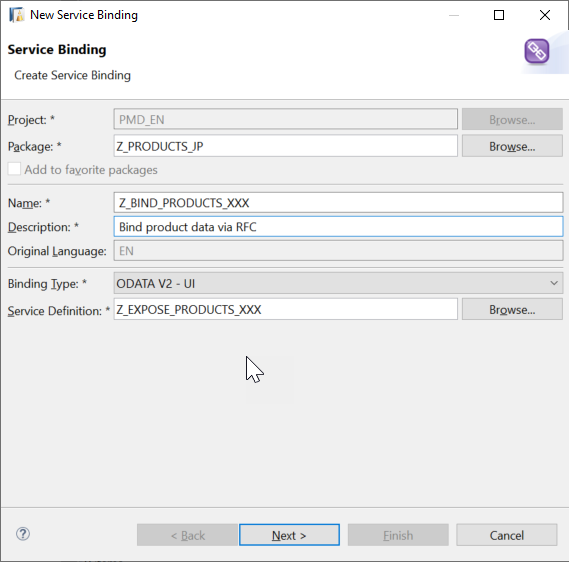
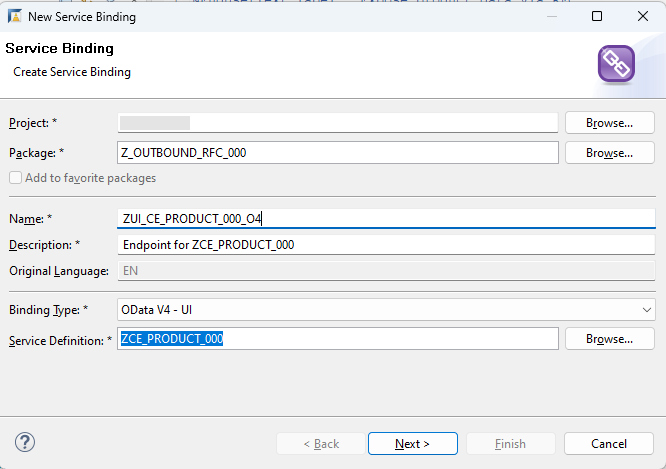
Feedback from GW

diff --git a/tutorials/abap-environment-rfc-custom-entity/abap-environment-rfc-custom-entity.md b/tutorials/abap-environment-rfc-custom-entity/abap-environment-rfc-custom-entity.md
@@ -36,6 +36,8 @@ Custom entities are used for data models for which you do not run a SELECT state
     
 Custom entities allow you to get data using an OData service or, as here, using RFC.
 
+Throughout this tutorial, replace `###` or `000` with your initials or group number.
+
 
 ---
 
@@ -45,12 +47,14 @@ First, you create the class that implements the data retrieval logic.
 
 1. In ADT, open your ABAP package and choose **New > Class**.
 
+    <!-- border -->  
     ![Image depicting step1-new-class](step1-new-class.png)
 
 2. Enter the following, then choose **Next**:
-    - Name: **`zcl_product_via_rfc_000`**
+   
+    - Name: **`zcl_product_via_rfc_###`**
     - Description: Read product data via `RFC`
-    - Interfaces: **`interfaces if_rap_query_provider`**
+    - Interfaces: **`if_rap_query_provider`**
 
 3. Choose the transport request, then choose **Finish**.
 
@@ -63,13 +67,16 @@ First, you create the class that implements the data retrieval logic.
 1. Now choose **New >  Other... > Core Data Services > Data Definition**.
 
 2. Enter a name and description:
-    - `zce_product_000`
+    - `zce_product_###`
     - Read product data via `RFC`
-
+    - Referenced Object: *Leave blank*
+   
 3. Choose the transport request, then choose **Next**. Do **not** choose **Finish**, yet!
+
 
 4. Choose **Define Custom Entity with Parameters**, then choose **Finish**. Ignore the errors for now.
 
+    <!-- border -->  
     ![Image depicting step1b-custom-entity](step1b-custom-entity.png)
 
 
@@ -79,7 +86,7 @@ Add the following annotation to the view (immediately after the '@EndUserText.la
 
 ```CDS
 
-@ObjectModel.query.implementedBy: 'ABAP:ZCL_PRODUCT_VIA_RFC_000'
+@ObjectModel.query.implementedBy: 'ABAP:ZCL_PRODUCT_VIA_RFC_###'
 
 ```
 
@@ -90,8 +97,6 @@ Add the following annotation to the view (immediately after the '@EndUserText.la
 
     ```CDS
 
-
-    define root custom entity zce_product_000
     with parameters parameter_name : parameter_type {
      key key_element_name : key_element_type;
      element_name : element_type;
@@ -120,7 +125,7 @@ For more information on the UI Annotations used here, see
 
     ```CDS
 
-    define root custom entity zce_product_000
+    define root custom entity zce_product_###
     {
 
           @UI.facet     : [
@@ -138,7 +143,7 @@ For more information on the UI Annotations used here, see
           identification: [{position: 10}],
           selectionField: [{position: 10}]
           }
-      key ProductId     : abap.char( 10 );
+      key product_id     : abap.char( 10 );
           TypeCode      : abap.char( 2 );
           @UI           : {
           lineItem      : [{position: 20, importance: #HIGH}],
@@ -169,8 +174,8 @@ For more information on the UI Annotations used here, see
           identification: [{position: 50}]
           }
           Price         : abap.dec( 23, 4 );
-          @Semantics.currencyCode: true
-          CurrencyCode  : abap.cuky( 5 );
+          @Semantics.currency_code: true
+          currency_code  : abap.cuky( 5 );
           @Semantics.quantity.unitOfMeasure: 'DimUnit'
           Width         : abap.quan( 13, 3 );
           @Semantics.quantity.unitOfMeasure: 'DimUnit'
@@ -192,11 +197,22 @@ You will now implement the data retrieval logic in the class.
 
 Go back to the class.
 
-1. You will start by defining an local internal table, which you will fill by retrieving the data from the back end. The type of the local variable is the CDS View that you just created. Add the following code to the `if_rap_query_provider~select` method.
+1. First, in the **`CLASS...DEFINITION` , `  PUBLIC SECTION.`**, define a type for the variable `maxrows`. You will need this later to call the `BAPI`:
 
     ```ABAP
 
-    DATA lt_product TYPE STANDARD TABLE OF zce_product_000.
+        TYPES:
+            BEGIN OF bapi_epm_max_rows,
+                bapimaxrow TYPE bapimaxrow,
+            END OF bapi_epm_max_rows.
+        
+    ```
+
+
+1. Now, in the **`CLASS...IMPLEMENTATION`**, define an local internal table, which you will fill by retrieving the data from the back end. The type of the local variable is the CDS View that you just created. Add the following code to the `if_rap_query_provider~select` method.
+
+    ```ABAP
+    DATA lt_product TYPE STANDARD TABLE OF zce_product_###.
 
     ```
 
@@ -213,7 +229,7 @@ Go back to the class.
 
 If you are working in the trial version, omit this step.
 
-If you are working in the full version of ABAP Environment: Define the connection as follows, replacing `000` with your initials or group number. Ignore any warnings for now. Wrap this in a `TRY. ...CATCH... ENDTRY.`
+If you are working in the full version of ABAP Environment: Define the connection as follows, replacing `###` with your initials or group number. Ignore any warnings for now. Wrap this in a `TRY. ...CATCH... ENDTRY.`
 
  
 **IMPORTANT**: Always specify the authentication mode using the interface `if_a4c_cp_service`. Never hard-code your password in the class.
@@ -224,9 +240,8 @@ If you are working in the full version of ABAP Environment: Define the connectio
 
       TRY.
         DATA(lo_destination) = cl_rfc_destination_provider=>create_by_comm_arrangement(
-                            comm_scenario          = 'Z_OUTBOUND_RFC_000_CSCEN'       " Communication scenario
-                            service_id             = 'Z_OUTBOUND_RFC_000'             " Outbound service
-                            comm_system_id         = 'Z_OUTBOUND_RFC_CSYS_000'        " Communication system
+                 comm_scenario          = 'Z_OUTBOUND_RFC_000_CSCEN'   " Communication scenario
+                 service_id             = 'Z_OUTBOUND_RFC_000_SRFC'    " Outbound service
 
                              ).
 
@@ -251,36 +266,33 @@ If you are working in the full version of ABAP Environment: Define the connectio
     ENDIF.
     ```
 
-2. Now add an `IF... ELSE. ... ENDIF.` block.
-
-3. If you are using the trial version, fill the internal table `lt_product` with the mock data. If not, call the `BAPI`.
+2. Now, in the **`CLASS...IMPLEMENTATION.`**, add an **`IF... ELSE. ... ENDIF.`** block. If you are using the trial version, fill the internal table `lt_product` with the mock data. If not, call the `BAPI`.
 
     ```ABAP
 
-     DATA lv_maxrows TYPE int4.
-
-     DATA(lv_skip) = io_request->get_paging( )->get_offset(  ).
-     DATA(lv_top) = io_request->get_paging( )->get_page_size(  ).
-
-     lv_maxrows = lv_skip + lv_top.
+    DATA ls_maxrows TYPE bapi_epm_max_rows.
+    DATA(lv_skip) = io_request->get_paging( )->get_offset(  ).
+    DATA(lv_top) = io_request->get_paging( )->get_page_size(  ).
+    ls_maxrows-bapimaxrow = lv_skip + lv_top.
 
      IF lv_abap_trial = abap_true.
-          lt_product = VALUE #( ( productid = 'HT-1000' name = 'Notebook' )
-                                ( productid = 'HT-1001' name = 'Notebook' )
-                                ( productid = 'HT-1002' name = 'Notebook' )
-                                ( productid = 'HT-1003' name = 'Notebook' )
-                                ( productid = 'HT-1004' name = 'Notebook' )
-                                ( productid = 'HT-1005' name = 'Notebook' )
+          lt_product = VALUE #( ( product_id = 'HT-1000' name = 'Notebook' )
+                                ( product_id = 'HT-1001' name = 'Notebook' )
+                                ( product_id = 'HT-1002' name = 'Notebook' )
+                                ( product_id = 'HT-1003' name = 'Notebook' )
+                                ( product_id = 'HT-1004' name = 'Notebook' )
+                                ( product_id = 'HT-1005' name = 'Notebook' )
                           ).
 
 
-    ELSE.                      
-     CALL FUNCTION 'BAPI_EPM_PRODUCT_GET_LIST'
+    ELSE.
+    "Call BAPI                      
+    CALL FUNCTION 'BAPI_EPM_PRODUCT_GET_LIST'
        DESTINATION lv_destination
        EXPORTING
-         max_rows   = lv_maxrows
+             max_rows   = ls_maxrows
        TABLES
-         headerdata = lt_product.
+             headerdata = lt_product.
 
     ENDIF.
 
@@ -326,21 +338,26 @@ Wrap the whole data retrieval logic call in a second `TRY. ..CATCH...ENDTRY` blo
 
 ```ABAP
 
-CLASS zcl_product_via_rfc_000 DEFINITION
+CLASS zcl_product_via_rfc_### DEFINITION
   PUBLIC
   FINAL
   CREATE PUBLIC .
 
   PUBLIC SECTION.
-    INTERFACES if_rap_query_provider.
+    TYPES:
+      BEGIN OF bapi_epm_max_rows,
+        bapimaxrow TYPE bapimaxrow,
+      END OF bapi_epm_max_rows.
+
+    INTERFACES if_rap_query_provider .
   PROTECTED SECTION.
   PRIVATE SECTION.
 ENDCLASS.
 
-CLASS zcl_product_via_rfc_000 IMPLEMENTATION.
+CLASS zcl_product_via_rfc_### IMPLEMENTATION.
   METHOD if_rap_query_provider~select.
 
-    DATA lt_product TYPE STANDARD TABLE OF  ZCE_PRODUCT_000 .
+    DATA lt_product TYPE STANDARD TABLE OF ZCE_PRODUCT_### .
 
     "In the trial version we cannot call RFC function module in backend systems
     DATA(lv_abap_trial) = abap_true.
@@ -349,30 +366,31 @@ CLASS zcl_product_via_rfc_000 IMPLEMENTATION.
     TRY.
 
         DATA(lo_destination) = cl_rfc_destination_provider=>create_by_comm_arrangement(
-                comm_scenario   = 'Z_OUTBOUND_000_REST_CSCEN'     " MANDATORY, created in CLI in ADT, contains Comm Arr, System, User
-                comm_system_id  = 'Z000_TO_PRV_CSYS'              " recommended = points to Comm Sys
-                service_id      = 'Z_OUTBOUND_000_REST'           " recommended = created in ADT, points to COM Outbound Service
+                 comm_scenario          = 'Z_OUTBOUND_RFC_000_CSCEN'   " Communication scenario
+                 service_id             = 'Z_OUTBOUND_RFC_000_SRFC'    " Outbound service
+
 
 
                             ).
 
+        DATA(lv_destination) = lo_destination->get_destination_name( ).
 
         "Check if data is requested
         IF io_request->is_data_requested(  ).
 
-            DATA lv_maxrows TYPE int4.
-            DATA(lv_skip) = io_request->get_paging( )->get_offset(  ).
-            DATA(lv_top) = io_request->get_paging( )->get_page_size(  ).
-            lv_maxrows = lv_skip + lv_top.
+          DATA ls_maxrows TYPE bapi_epm_max_rows.
+          DATA(lv_skip) = io_request->get_paging( )->get_offset(  ).
+          DATA(lv_top) = io_request->get_paging( )->get_page_size(  ).
+          ls_maxrows-bapimaxrow = lv_skip + lv_top.
 
                 IF lv_abap_trial = abap_true.
                     lt_product = VALUE #(
-                              ( productid = 'HT-1000' name = 'Notebook' )
-                              ( productid = 'HT-1001' name = 'Notebook' )
-                              ( productid = 'HT-1002' name = 'Notebook' )
-                              ( productid = 'HT-1003' name = 'Notebook' )
-                              ( productid = 'HT-1004' name = 'Notebook' )
-                              ( productid = 'HT-1005' name = 'Notebook' )
+                              ( product_id = 'HT-1000' name = 'Notebook' )
+                              ( product_id = 'HT-1001' name = 'Notebook' )
+                              ( product_id = 'HT-1002' name = 'Notebook' )
+                              ( product_id = 'HT-1003' name = 'Notebook' )
+                              ( product_id = 'HT-1004' name = 'Notebook' )
+                              ( product_id = 'HT-1005' name = 'Notebook' )
                               ).
 
                 ELSE.
@@ -380,10 +398,9 @@ CLASS zcl_product_via_rfc_000 IMPLEMENTATION.
                   CALL FUNCTION 'BAPI_EPM_PRODUCT_GET_LIST'
                        DESTINATION lv_destination
                        EXPORTING
-                         max_rows   = lv_maxrows
+                         max_rows   = ls_maxrows
                        TABLES
-                         headerdata = lt_product
-                         .
+                         headerdata = lt_product.
 
                 ENDIF.
                   "Set total no. of records
@@ -414,21 +431,36 @@ You then use the **Service Binding** to bind a service definition to a client-se
 
 Start with the Service Definition:
 
-1. From your package, select your custom entity, **`zce_product_000`**, then choose **New > Service Definition** from the context menu, then choose **Next**.
+1. From your package, select your custom entity, **`zce_product_###`**, then choose **New > Service Definition** from the context menu, then choose **Next**.
 
+    <!-- border -->
     ![Image depicting step12-choose-service-def](step12-choose-service-def.png)
 
-2. Choose a name and description:
-    - **`Z_EXPOSE_PRODUCTS_000`**
-    - Expose product data via RFC
+2. Enter the following and choose **Next**:
+    - Name: **`ZCE_PRODUCT_###`**
+    - Description: Expose product data via RFC
+    - Source Type: Definition
+    - Referenced Object: **`ZCE_PRODUCT_###`**
+
+    <!-- border -->
+    ![step12b-new-service-def](step12b-new-service-def.png)  
 
 3. Choose the transport request; choose **Next**.
 
 4. Use the selected template; choose **Finish**. The name of your custom entity is inserted automatically.
 
+    <!-- border -->
     ![Image depicting step11-expose-view](step11-expose-view.png)
 
-5. Save and activate ( **`Ctrl+S, Ctrl+F3`** ) the service definition.
+5. Optional: For readability, add an alias, such as **Products**:
+
+    ```CDS
+    expose zce_product_### as Products;
+    ```
+   
+6. Save and activate ( **`Ctrl+S, Ctrl+F3`** ) the service definition.
+
+
 
 
 ### Create the service binding
@@ -436,47 +468,55 @@ Start with the Service Definition:
 1. Select your service definition, then choose **Service Binding** from the context menu, then choose **Next**.
 
 2. Enter the following, then choose **Next**:
-    - Name = **`Z_BIND_PRODUCTS_000`**
+    - Name = **`ZUI_CE_PRODUCT_###`**
     - Description = Bind product data via RFC
     - Binding Type = ODATA V2 (UI...)
-    - Service Definition = `ZSD_PRODUCT_000`
+    - Service Definition = `ZCE_PRODUCT_###`
 
-      ![Image depicting step12-choose-binding-type](step12-choose-binding-type.png)
+    <!-- border -->
+    ![Image depicting step12-choose-binding-type](step12-choose-binding-type.png)
 
 3. Choose the transport request; choose **Finish**.
 
 The service binding automatically references the service definition and thus the exposed custom entity.
 
+> The names of the service definition and binding comply with the [Naming Conventions for Development Objects](https://help.sap.com/docs/abap-cloud/abap-rap/naming-conventions-for-development-objects) in SAP Help Portal.
 
 ### Activate service binding
 
 1. In the editor that appears, choose **Activate**.
 
+    <!-- border -->     
     ![Image depicting step13-activate-service-endpoint](step13-activate-service-endpoint.png)
 
 2. Then choose **Publish**. You can now see the Service URL and Entity Set.
 
+    <!-- border -->  
     ![Image depicting step13b-service-binding-details](step13b-service-binding-details.png)
 
 3. You can open the Service Document (`XML`) in your browser, by choosing **Service URL**.
 
-    <!-- border -->![step14c-service-url-in-browser](step14c-service-url-in-browser.png)
+    <!-- border -->
+    ![step14c-service-url-in-browser](step14c-service-url-in-browser.png)
 
-4. In the browser, you can also see the **Metadata Document** of the Business Service by adding $metadata to the URL: `sap/opu/odata/sap/Z_BIND_PRODUCT_TEST_001/$metadata`.
+4. In the browser, you can also see the **Metadata Document** of the Business Service by adding the suffix `$metadata` to the URL:  `sap/opu/odata/sap/Z_BIND_PRODUCT_TEST_001/$metadata`.
 
-    <!-- border -->![step14d-service-metadata-in-browser](step14d-service-metadata-in-browser.png)
+    <!-- border -->
+    ![step14d-service-metadata-in-browser](step14d-service-metadata-in-browser.png)
 
 
 ### Display the Fiori Elements preview
 
 1. Select the entity set and choose **Preview**.
 
+    <!-- border -->
     ![Image depicting step14-preview](step14-preview.png)
 
 2. Log in using your ABAP Environment user and password; the Fiori Elements preview appears.
 
 3. Display the data by choosing **Go**.
 
+    <!-- border -->
     ![Image depicting step14b-preview-with-data](step14b-preview-with-data.png)
 
 
@@ -504,8 +544,8 @@ with the type of your custom entity:
 
     ```ABAP
 
-    DATA lt_product TYPE STANDARD TABLE OF zce_product_via_rfc_000.
-    DATA ls_product TYPE zce_product_via_rfc_000.
+    DATA lt_product TYPE STANDARD TABLE OF zce_product_via_rfc_###.
+    DATA ls_product TYPE zce_product_via_rfc_###.
 
     ```
 
